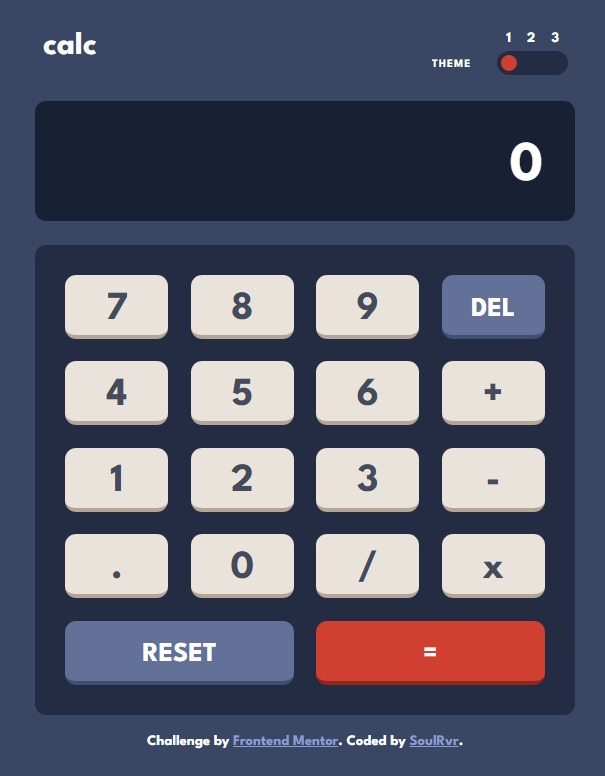
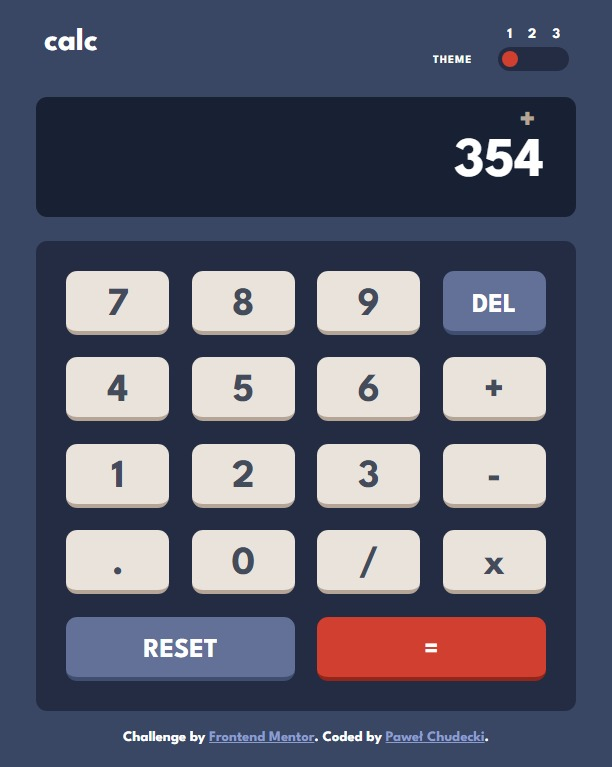
added operation sign on result screen

diff --git a/index.js b/index.js
@@ -1,6 +1,7 @@
 let themeActual = localStorage.getItem("theme");
 let switchPosition = document.querySelector(".switch");
 let result = document.querySelector(".result");
+let operatorSign = document.querySelector(".operation");
 
 setTheme(themeActual);
 
@@ -40,6 +41,7 @@ let number = ""; // container for calculations
 function calculate(button) {
   switch (button) {
     case "=":
+      operatorSign.innerHTML = '';
       number = eval(number);
       number = "" + number; // convert to string
       result.innerHTML = number;
@@ -63,6 +65,30 @@ function calculate(button) {
     case "+":
     case "-":
       let operator = operatorCheck(); //replace operator if last
+      if(button == '+') {
+        operatorSign.innerHTML = button;
+        operatorSign.style.right = '40px';
+        operatorSign.style.top = '10px';
+        operatorSign.style.fontSize = '2rem';
+      }
+      if(button == '-') {
+        operatorSign.innerHTML = button;
+        operatorSign.style.right = '42px';
+        operatorSign.style.top = '7px';
+        operatorSign.style.fontSize = '2rem';
+      }
+      if(button == '/') {
+        operatorSign.innerHTML = button;
+        operatorSign.style.right = '43px';
+        operatorSign.style.top = '12px';
+        operatorSign.style.fontSize = '1.4rem';
+      }
+      if(button == 'x') {
+        operatorSign.innerHTML = button;
+        operatorSign.style.right = '40px';
+        operatorSign.style.top = '8px';
+        operatorSign.style.fontSize = '1.8rem';
+      }
       if (operator == true) {
         number = number.slice(0, number.length - 1);
       }

diff --git a/index.html b/index.html
@@ -33,6 +33,7 @@
         </div>
       </header>
       <section class="resultContainer">
+        <div class="operation"></div>
         <div class="result">0</div>
       </section>
       <section class="controlBoard">
@@ -61,7 +62,7 @@
       <a href="https://www.frontendmentor.io?ref=challenge" target="_blank"
         >Frontend Mentor</a
       >. Coded by
-      <a href="https://www.frontendmentor.io/profile/SoulRvr29">SoulRvr</a>.
+      <a href="https://www.frontendmentor.io/profile/SoulRvr29">Paweł Chudecki</a>.
     </footer>
     <script src="index.js"></script>
   </body>

diff --git a/index.css b/index.css
@@ -171,12 +171,19 @@ h2 {
   border-radius: var(--brd-radius);
   padding: 2.5rem 2rem;
   overflow-x: hidden;
+  position: relative;
 }
 .result {
   font-size: 3.5rem;
   height: 2.5rem;
 }
-
+.operation{
+  position: absolute;
+  top: 10px;
+  right: 40px;
+  /* font-size: 1.2rem; */
+  color: var(--key-shadow);
+}
 /***   BOARD   ***/
 .controlBoard {
   display: grid;
